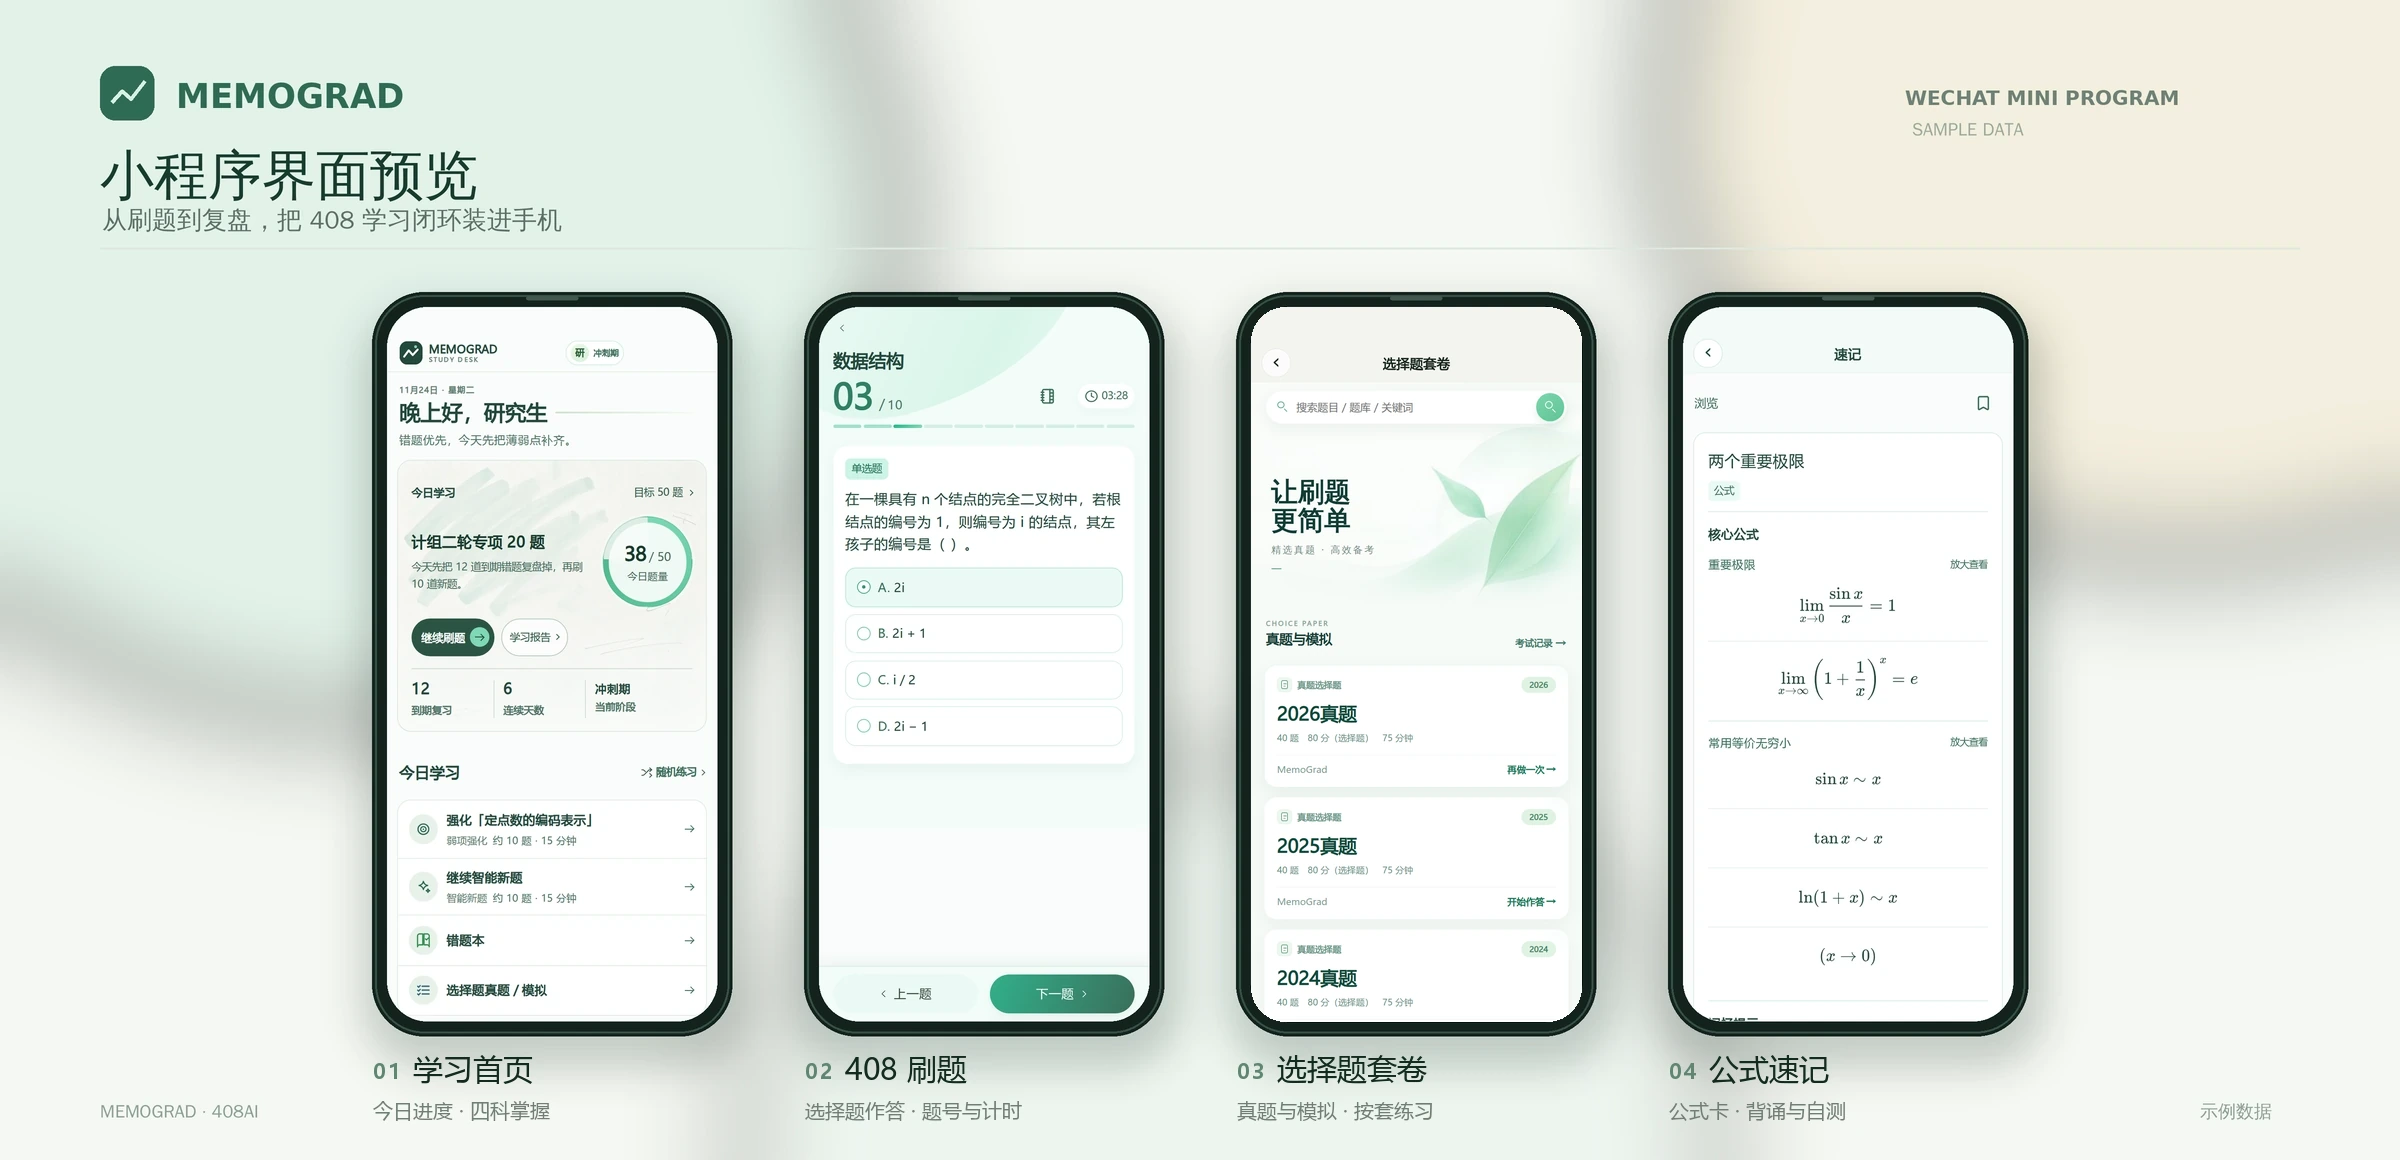
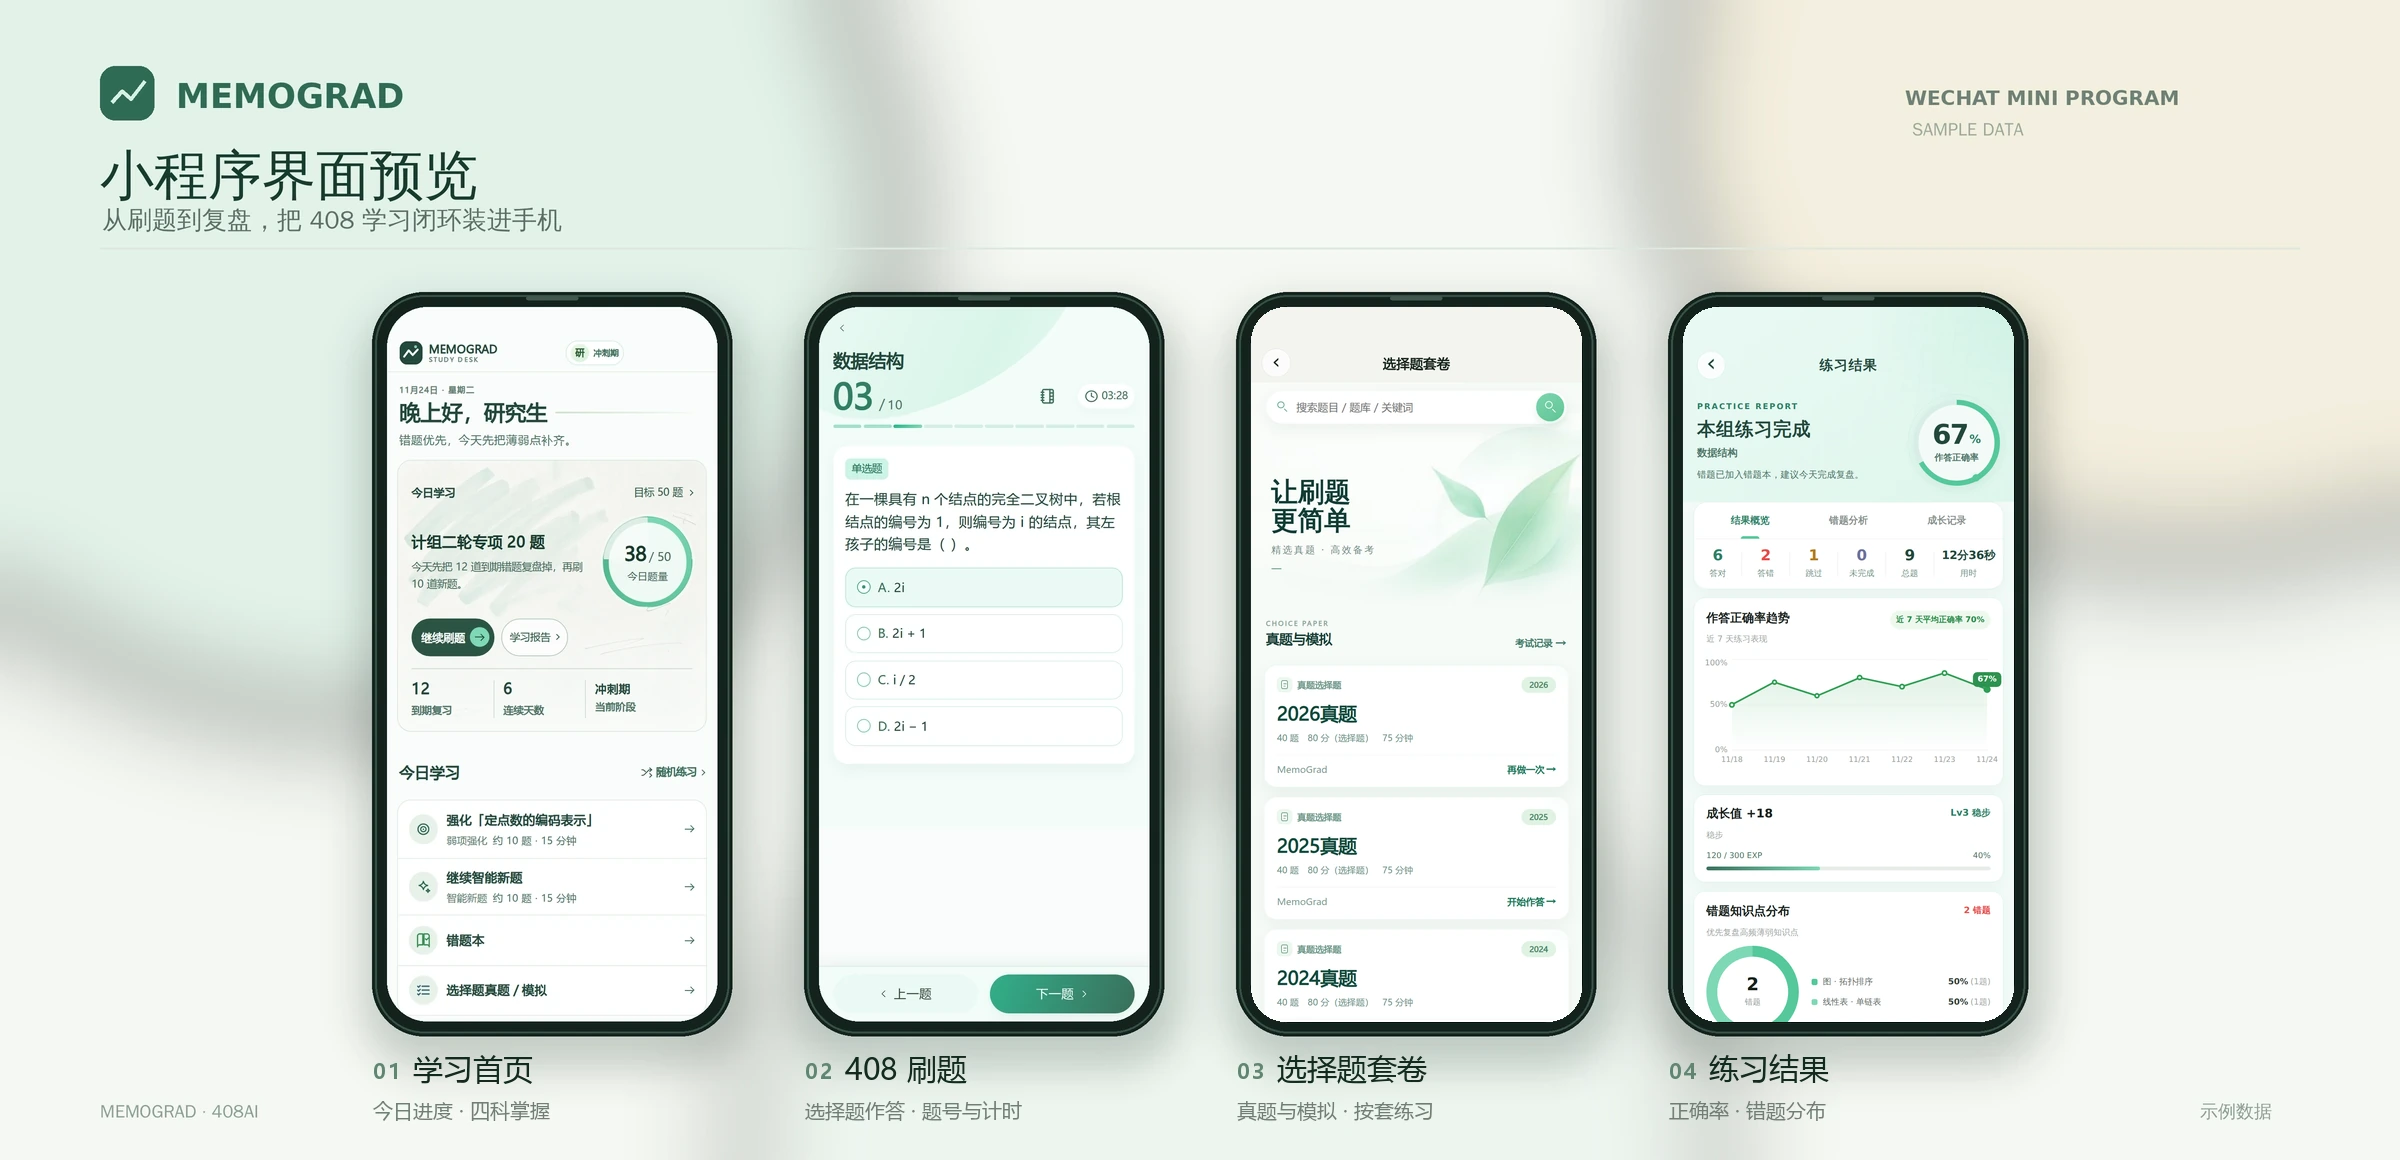
docs(readme): show practice result in Mini Program preview

diff --git a/README.en-US.md b/README.en-US.md
@@ -66,11 +66,11 @@ MemoGrad is a complete postgraduate-exam study platform that combines a WeChat M
 ## Product Preview
 
 <p align="center">
-  <img src="assets/miniprogram-preview.webp" alt="MemoGrad Mini Program preview: learning home, 408 practice question, choice-paper library, and formula review" width="100%" />
+  <img src="assets/miniprogram-preview.webp" alt="MemoGrad Mini Program preview: learning home, 408 practice question, choice-paper library, and practice report" width="100%" />
 </p>
 
 <p align="center">
-  <sub>WeChat Mini Program · Learning home, 408 practice, choice-paper library, and formula review (sample data)</sub>
+  <sub>WeChat Mini Program · Learning home, 408 practice, choice-paper library, and practice report (sample data)</sub>
 </p>
 
 <p align="center">
@@ -81,7 +81,7 @@ MemoGrad is a complete postgraduate-exam study platform that combines a WeChat M
   <sub>Admin console · Question operations, review queues, annual activity, AI usage, and system health in one view (sample data)</sub>
 </p>
 
-The Mini Program brings daily learning, 408 multiple-choice practice, the choice-paper library, and formula review into one learning loop; the admin workspace combines user and question growth, pending review queues, annual 2D/3D activity distribution, AI usage quality, and runtime health so operators can quickly locate work that needs attention.
+The Mini Program brings daily learning, 408 multiple-choice practice, the choice-paper library, and practice-report review into one learning loop; the admin workspace combines user and question growth, pending review queues, annual 2D/3D activity distribution, AI usage quality, and runtime health so operators can quickly locate work that needs attention.
 
 ## Architecture
 
